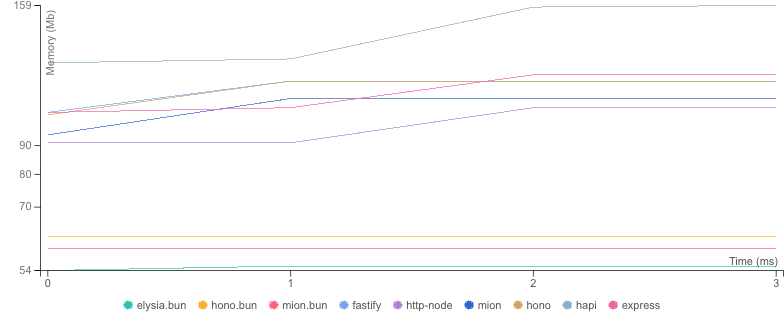
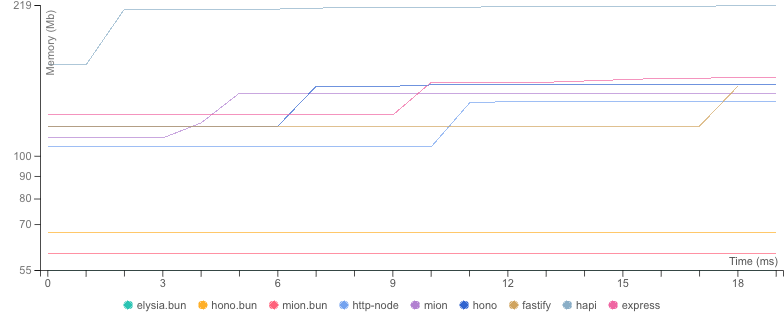
run latest benchmarks using wrk

diff --git a/HELLO-WORLD.md b/HELLO-WORLD.md
@@ -23,38 +23,12 @@ These benchmarks test the typical hello world response, not very useful, but sho
 
 > The hello world benchmark is related to the router's performance as parameters validation is not involved.
 
-## Why Bun servers are excluded
-
-Bun servers (mion.bun, hono.bun, elysia.bun) are **excluded from the hello world benchmarks** because the benchmarking tool used (autocannon) is not fast enough to accurately measure Bun's performance.
-
-As stated in the [Bun documentation](https://bun.sh/docs/project/benchmarking):
-
-> "For load testing, you _must use_ an HTTP benchmarking tool that is at least as fast as `Bun.serve()`, or your results will be skewed. Some popular Node.js-based benchmarking tools like `autocannon` are not fast enough."
-
-When benchmarking Bun servers with autocannon, the results show inverted performance characteristics (simple endpoints appearing slower than complex ones), which indicates the benchmarking tool itself is the bottleneck, not the server.
-
-**Bun servers are still included in the [main benchmarks](UPDATE-USER.md)** (updateUser endpoint) where the additional processing overhead (validation, serialization, business logic) makes autocannon's limitations less impactful on the results.
-
-For accurate Bun benchmarks, tools like `bombardier`, `oha`, or `http_load_test` (all written in Rust/Go) should be used instead.
-
-```ts
-// ### mion ###
-export const routes = {
-  hello: (): { hello: string } => ({ hello: "world" }),
-} satisfies Routes;
-
-// ### Express ###
-app.get("/hello", function (req, res) {
-  res.json({ hello: "world" });
-});
-```
-
 ## Benchmark Results
 
 * __Machine:__ darwin arm64 | 12 vCPUs | 16.0GB Mem
 * __Node:__ `v24.13.0`
-* __Run:__ Wed Apr 15 2026 21:04:05 GMT+0100 (Irish Standard Time)
-* __Method:__ `autocannon -c 100 -d 4.10023 -p 1 localhost:3000` (two rounds; one to warm-up, one to measure)
+* __Run:__ Wed Apr 15 2026 22:04:55 GMT+0100 (Irish Standard Time)
+* __Method:__ `autocannon -c 100 -d 20.099952 -p 1 localhost:3000` (two rounds; one to warm-up, one to measure)
 
 #### Req (R/s) 
 
@@ -86,14 +60,14 @@ app.get("/hello", function (req, res) {
 
 
 
-|              | Version   | Router | Req (R/s)   | Latency (ms) | Output (Mb/s) | Max Memory (Mb) | Max Cpu (%) | Validation | Description                                                |
-| :--          | --:       | --:    | :-:         | --:          | --:           | --:             | --:         | :-:        | :--                                                        |
-| elysia.bun   | 1.0.0     | ✓      | 120208.9    | 0.80         | 14.33         | 55              | 111         | ✓          | Elysia framework with TypeBox validation                   |
-| hono.bun     | 3.12.6    | ✓      | 104675.3    | 0.92         | 12.48         | 62              | 101         | ✓          | hono bun server with Zod validation                        |
-| **mion.bun** | **0.6.2** | **✓**  | **97148.4** | **0.99**     | **14.55**     | **59**          | **110**     | **✓**      | **mion using bun, automatic validation and serialization** |
-| fastify      | 5.7.4     | ✓      | 80895.7     | 1.22         | 14.50         | 117             | 114         | ✓          | Fastify with native JSON Schema validation                 |
-| http-node    | 16.18.0   | ✗      | 80107.9     | 1.25         | 14.29         | 105             | 115         | ✓          | bare node http server with Zod validation                  |
-| **mion**     | **0.6.2** | **✓**  | **70935.8** | **1.43**     | **13.80**     | **109**         | **101**     | **✓**      | **Automatic validation and serialization out of the box**  |
-| hono         | 3.12.6    | ✓      | 68732.6     | 1.48         | 11.27         | 117             | 114         | ✓          | hono node server with Zod validation                       |
-| hapi         | 21.4.4    | ✓      | 56913.1     | 1.82         | 10.15         | 159             | 116         | ✓          | Hapi with Zod validation                                   |
-| express      | 5.2.1     | ✓      | 53092.7     | 1.93         | 9.47          | 120             | 114         | ✓          | Express with Zod validation                                |
+|              | Version   | Router | Req (R/s)    | Latency (ms) | Output (Mb/s) | Max Memory (Mb) | Max Cpu (%) | Validation | Description                                                |
+| :--          | --:       | --:    | :-:          | --:          | --:           | --:             | --:         | :-:        | :--                                                        |
+| elysia.bun   | 1.0.0     | ✓      | 124499.5     | 0.77         | 14.84         | 55              | 109         | ✓          | Elysia framework with TypeBox validation                   |
+| hono.bun     | 3.12.6    | ✓      | 110404.7     | 0.87         | 13.16         | 67              | 109         | ✓          | hono bun server with Zod validation                        |
+| **mion.bun** | **0.6.2** | **✓**  | **101825.0** | **0.94**     | **15.25**     | **60**          | **109**     | **✓**      | **mion using bun, automatic validation and serialization** |
+| http-node    | 16.18.0   | ✗      | 84535.9      | 1.14         | 15.08         | 133             | 114         | ✓          | bare node http server with Zod validation                  |
+| **mion**     | **0.6.2** | **✓**  | **73443.0**  | **1.32**     | **14.29**     | **139**         | **114**     | **✓**      | **Automatic validation and serialization out of the box**  |
+| hono         | 3.12.6    | ✓      | 73011.9      | 1.33         | 11.98         | 145             | 114         | ✓          | hono node server with Zod validation                       |
+| fastify      | 5.7.4     | ✓      | 59551.2      | 1.63         | 10.68         | 144             | 104         | ✓          | Fastify with native JSON Schema validation                 |
+| hapi         | 21.4.4    | ✓      | 58388.5      | 1.66         | 10.41         | 219             | 108         | ✓          | Hapi with Zod validation                                   |
+| express      | 5.2.1     | ✓      | 56729.9      | 1.71         | 10.12         | 151             | 106         | ✓          | Express with Zod validation                                |

diff --git a/UPDATE-USER.md b/UPDATE-USER.md
@@ -119,8 +119,8 @@ Our goal is to perform similar to fastify as it is the industry standard in term
 
 * __Machine:__ darwin arm64 | 12 vCPUs | 16.0GB Mem
 * __Node:__ `v24.13.0`
-* __Run:__ Wed Apr 15 2026 21:02:48 GMT+0100 (Irish Standard Time)
-* __Method:__ `autocannon -c 100 -d 4.100765 -p 1 localhost:3000` (two rounds; one to warm-up, one to measure)
+* __Run:__ Wed Apr 15 2026 22:00:02 GMT+0100 (Irish Standard Time)
+* __Method:__ `autocannon -c 100 -d 20.102586 -p 1 localhost:3000` (two rounds; one to warm-up, one to measure)
 
 #### Req (R/s) 
 
@@ -154,12 +154,12 @@ Our goal is to perform similar to fastify as it is the industry standard in term
 
 |              | Version   | Router | Req (R/s)   | Latency (ms) | Output (Mb/s) | Max Memory (Mb) | Max Cpu (%) | Validation | Description                                                |
 | :--          | --:       | --:    | :-:         | --:          | --:           | --:             | --:         | :-:        | :--                                                        |
-| hono.bun     | 3.12.6    | ✓      | 47075.6     | 2.04         | 46.42         | 85              | 111         | ✓          | hono bun server with Zod validation                        |
-| **mion.bun** | **0.6.2** | **✓**  | **45579.0** | **2.11**     | **46.98**     | **71**          | **100**     | **✓**      | **mion using bun, automatic validation and serialization** |
-| elysia.bun   | 1.0.0     | ✓      | 39493.7     | 2.42         | 38.94         | 98              | 102         | ✓          | Elysia framework with TypeBox validation                   |
-| http-node    | 16.18.0   | ✗      | 36716.4     | 2.87         | 38.37         | 116             | 116         | ✓          | bare node http server with Zod validation                  |
-| **mion**     | **0.6.2** | **✓**  | **36812.8** | **2.94**     | **39.60**     | **121**         | **117**     | **✓**      | **Automatic validation and serialization out of the box**  |
-| fastify      | 5.7.4     | ✓      | 29039.3     | 3.71         | 30.38         | 269             | 133         | ✓          | Fastify with native JSON Schema validation                 |
-| express      | 5.2.1     | ✓      | 27606.2     | 3.88         | 28.85         | 130             | 118         | ✓          | Express with Zod validation                                |
-| hapi         | 21.4.4    | ✓      | 25532.7     | 4.43         | 26.68         | 137             | 121         | ✓          | Hapi with Zod validation                                   |
-| hono         | 3.12.6    | ✓      | 23785.1     | 4.86         | 24.52         | 358             | 127         | ✓          | hono node server with Zod validation                       |
+| **mion.bun** | **0.6.2** | **✓**  | **49225.9** | **1.95**     | **50.74**     | **70**          | **101**     | **✓**      | **mion using bun, automatic validation and serialization** |
+| hono.bun     | 3.12.6    | ✓      | 48727.1     | 1.96         | 48.04         | 85              | 101         | ✓          | hono bun server with Zod validation                        |
+| elysia.bun   | 1.0.0     | ✓      | 40668.8     | 2.35         | 40.10         | 100             | 101         | ✓          | Elysia framework with TypeBox validation                   |
+| **mion**     | **0.6.2** | **✓**  | **37747.5** | **2.60**     | **40.60**     | **152**         | **116**     | **✓**      | **Automatic validation and serialization out of the box**  |
+| http-node    | 16.18.0   | ✗      | 36701.8     | 2.68         | 38.36         | 144             | 106         | ✓          | bare node http server with Zod validation                  |
+| fastify      | 5.7.4     | ✓      | 32177.0     | 3.05         | 33.66         | 269             | 125         | ✓          | Fastify with native JSON Schema validation                 |
+| express      | 5.2.1     | ✓      | 28152.4     | 3.53         | 29.42         | 162             | 109         | ✓          | Express with Zod validation                                |
+| hapi         | 21.4.4    | ✓      | 25700.5     | 3.86         | 26.86         | 226             | 112         | ✓          | Hapi with Zod validation                                   |
+| hono         | 3.12.6    | ✓      | 23521.2     | 4.73         | 24.25         | 614             | 120         | ✓          | hono node server with Zod validation                       |

diff --git a/SIMPLE-USER.md b/SIMPLE-USER.md
@@ -75,8 +75,8 @@ This benchmark is designed to measure framework performance with minimal validat
 
 * __Machine:__ darwin arm64 | 12 vCPUs | 16.0GB Mem
 * __Node:__ `v24.13.0`
-* __Run:__ Wed Apr 15 2026 21:05:23 GMT+0100 (Irish Standard Time)
-* __Method:__ `autocannon -c 100 -d 4.102367 -p 1 localhost:3000` (two rounds; one to warm-up, one to measure)
+* __Run:__ Wed Apr 15 2026 22:09:47 GMT+0100 (Irish Standard Time)
+* __Method:__ `autocannon -c 100 -d 20.10033 -p 1 localhost:3000` (two rounds; one to warm-up, one to measure)
 
 #### Req (R/s) 
 
@@ -110,12 +110,12 @@ This benchmark is designed to measure framework performance with minimal validat
 
 |              | Version   | Router | Req (R/s)   | Latency (ms) | Output (Mb/s) | Max Memory (Mb) | Max Cpu (%) | Validation | Description                                                |
 | :--          | --:       | --:    | :-:         | --:          | --:           | --:             | --:         | :-:        | :--                                                        |
-| elysia.bun   | 1.0.0     | ✓      | 76198.7     | 1.26         | 14.60         | 85              | 111         | ✓          | Elysia framework with TypeBox validation                   |
-| hono.bun     | 3.12.6    | ✓      | 74862.2     | 1.28         | 14.34         | 68              | 111         | ✓          | hono bun server with Zod validation                        |
-| **mion.bun** | **0.6.2** | **✓**  | **69088.2** | **1.37**     | **16.79**     | **63**          | **110**     | **✓**      | **mion using bun, automatic validation and serialization** |
-| http-node    | 16.18.0   | ✗      | 55456.0     | 1.92         | 13.90         | 93              | 114         | ✓          | bare node http server with Zod validation                  |
-| **mion**     | **0.6.2** | **✓**  | **52188.8** | **1.97**     | **15.02**     | **113**         | **116**     | **✓**      | **Automatic validation and serialization out of the box**  |
-| fastify      | 5.7.4     | ✓      | 40369.5     | 2.58         | 10.16         | 252             | 122         | ✓          | Fastify with native JSON Schema validation                 |
-| express      | 5.2.1     | ✓      | 39317.3     | 2.70         | 9.86          | 126             | 117         | ✓          | Express with Zod validation                                |
-| hapi         | 21.4.4    | ✓      | 35039.2     | 3.18         | 8.78          | 137             | 121         | ✓          | Hapi with Zod validation                                   |
-| hono         | 3.12.6    | ✓      | 31693.8     | 3.50         | 7.49          | 417             | 123         | ✓          | hono node server with Zod validation                       |
+| elysia.bun   | 1.0.0     | ✓      | 82502.3     | 1.16         | 15.81         | 89              | 108         | ✓          | Elysia framework with TypeBox validation                   |
+| hono.bun     | 3.12.6    | ✓      | 79744.7     | 1.20         | 15.28         | 71              | 109         | ✓          | hono bun server with Zod validation                        |
+| **mion.bun** | **0.6.2** | **✓**  | **73772.7** | **1.30**     | **17.93**     | **64**          | **108**     | **✓**      | **mion using bun, automatic validation and serialization** |
+| http-node    | 16.18.0   | ✗      | 59640.9     | 1.63         | 14.95         | 136             | 115         | ✓          | bare node http server with Zod validation                  |
+| **mion**     | **0.6.2** | **✓**  | **55432.8** | **1.76**     | **15.96**     | **142**         | **101**     | **✓**      | **Automatic validation and serialization out of the box**  |
+| fastify      | 5.7.4     | ✓      | 41002.8     | 2.41         | 10.32         | 254             | 125         | ✓          | Fastify with native JSON Schema validation                 |
+| express      | 5.2.1     | ✓      | 40209.3     | 2.43         | 10.08         | 173             | 108         | ✓          | Express with Zod validation                                |
+| hapi         | 21.4.4    | ✓      | 35953.5     | 2.75         | 9.01          | 223             | 110         | ✓          | Hapi with Zod validation                                   |
+| hono         | 3.12.6    | ✓      | 30677.7     | 4.23         | 7.25          | 1089            | 148         | ✓          | hono node server with Zod validation                       |
